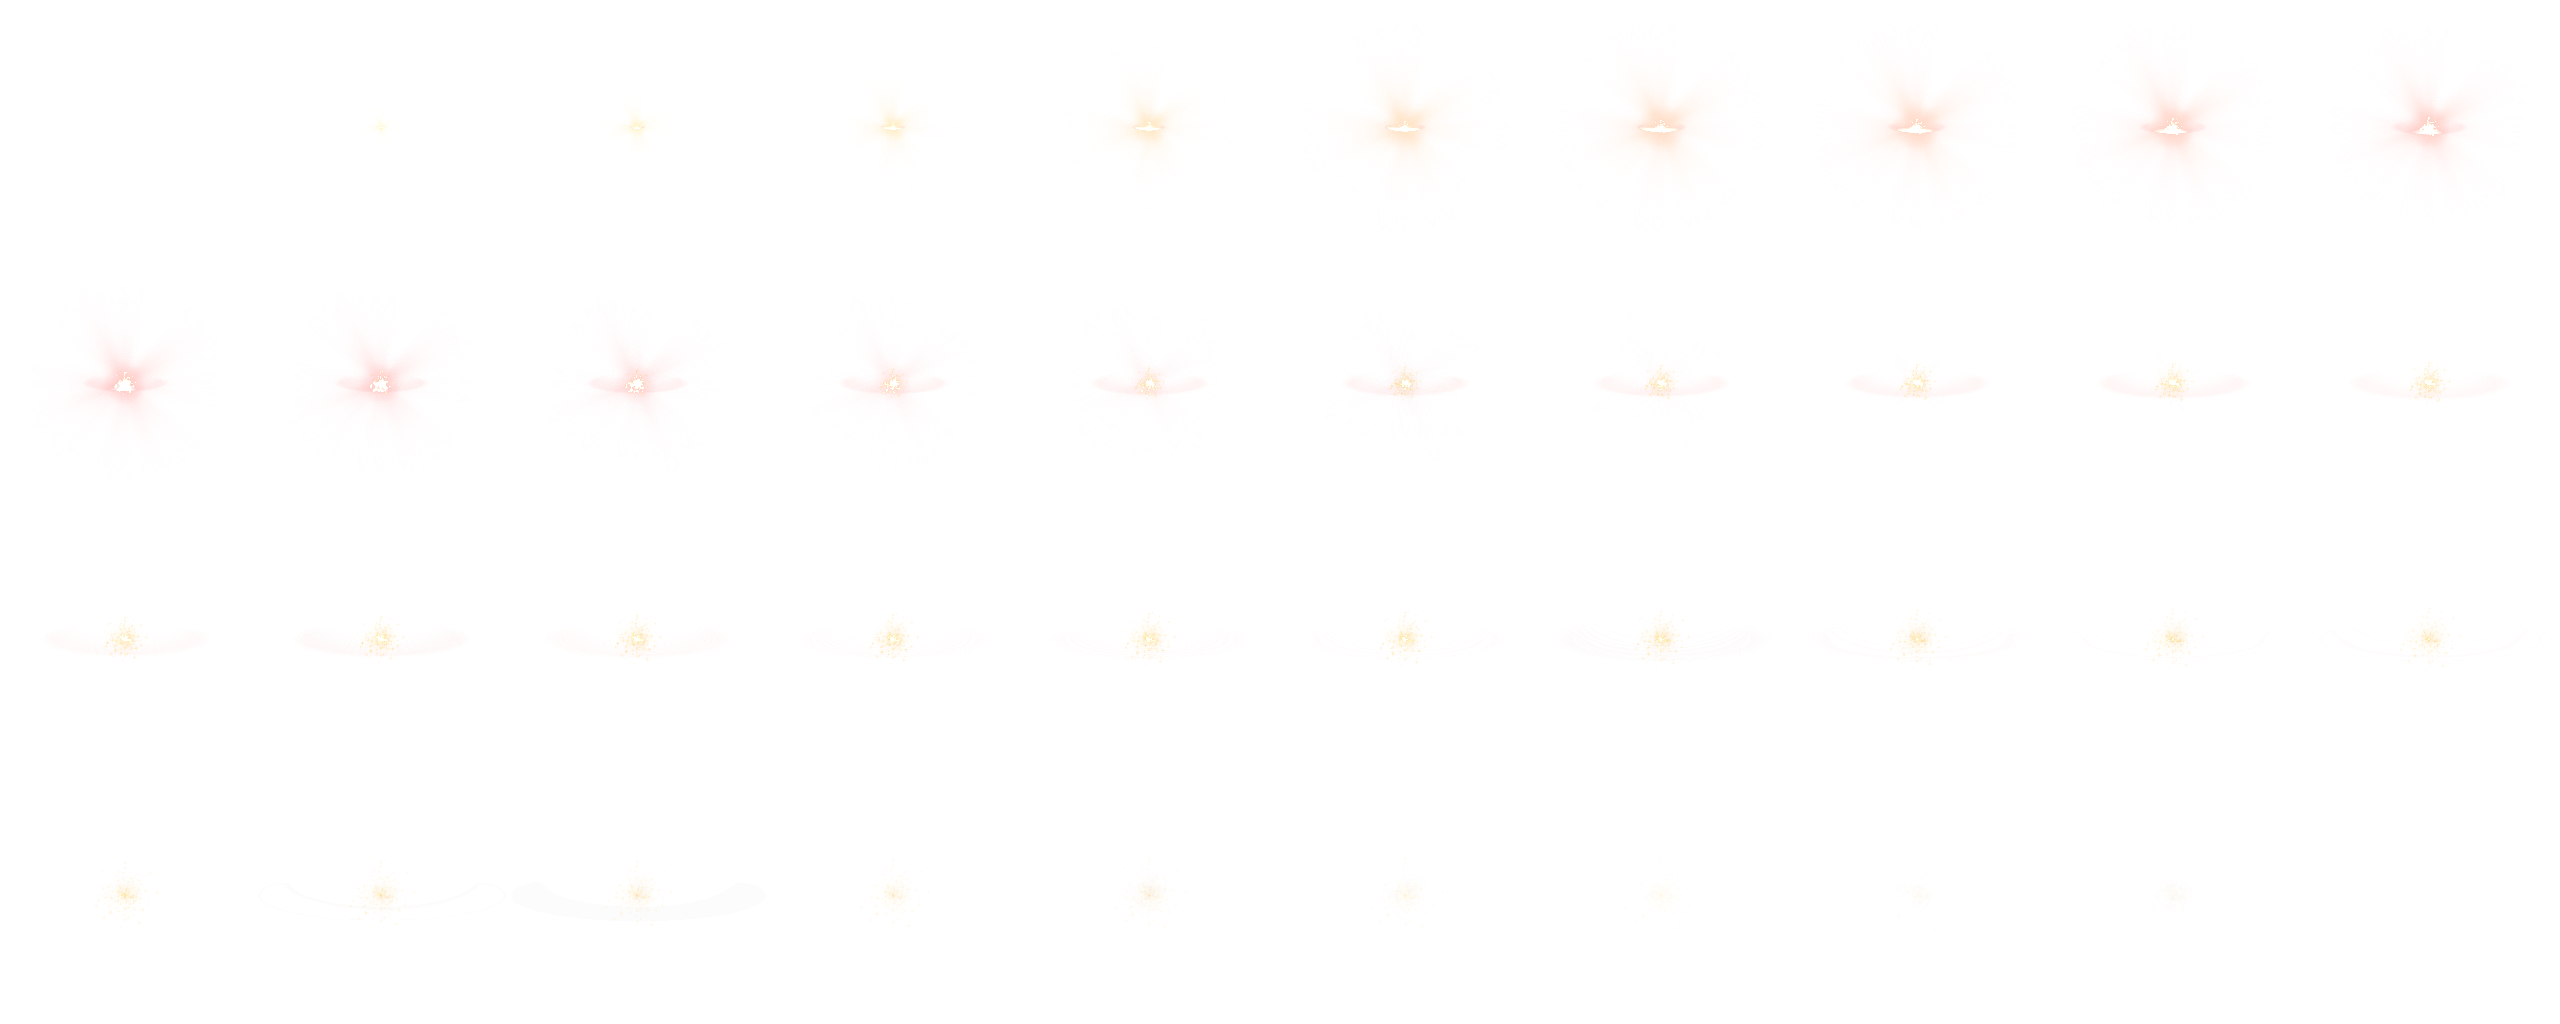
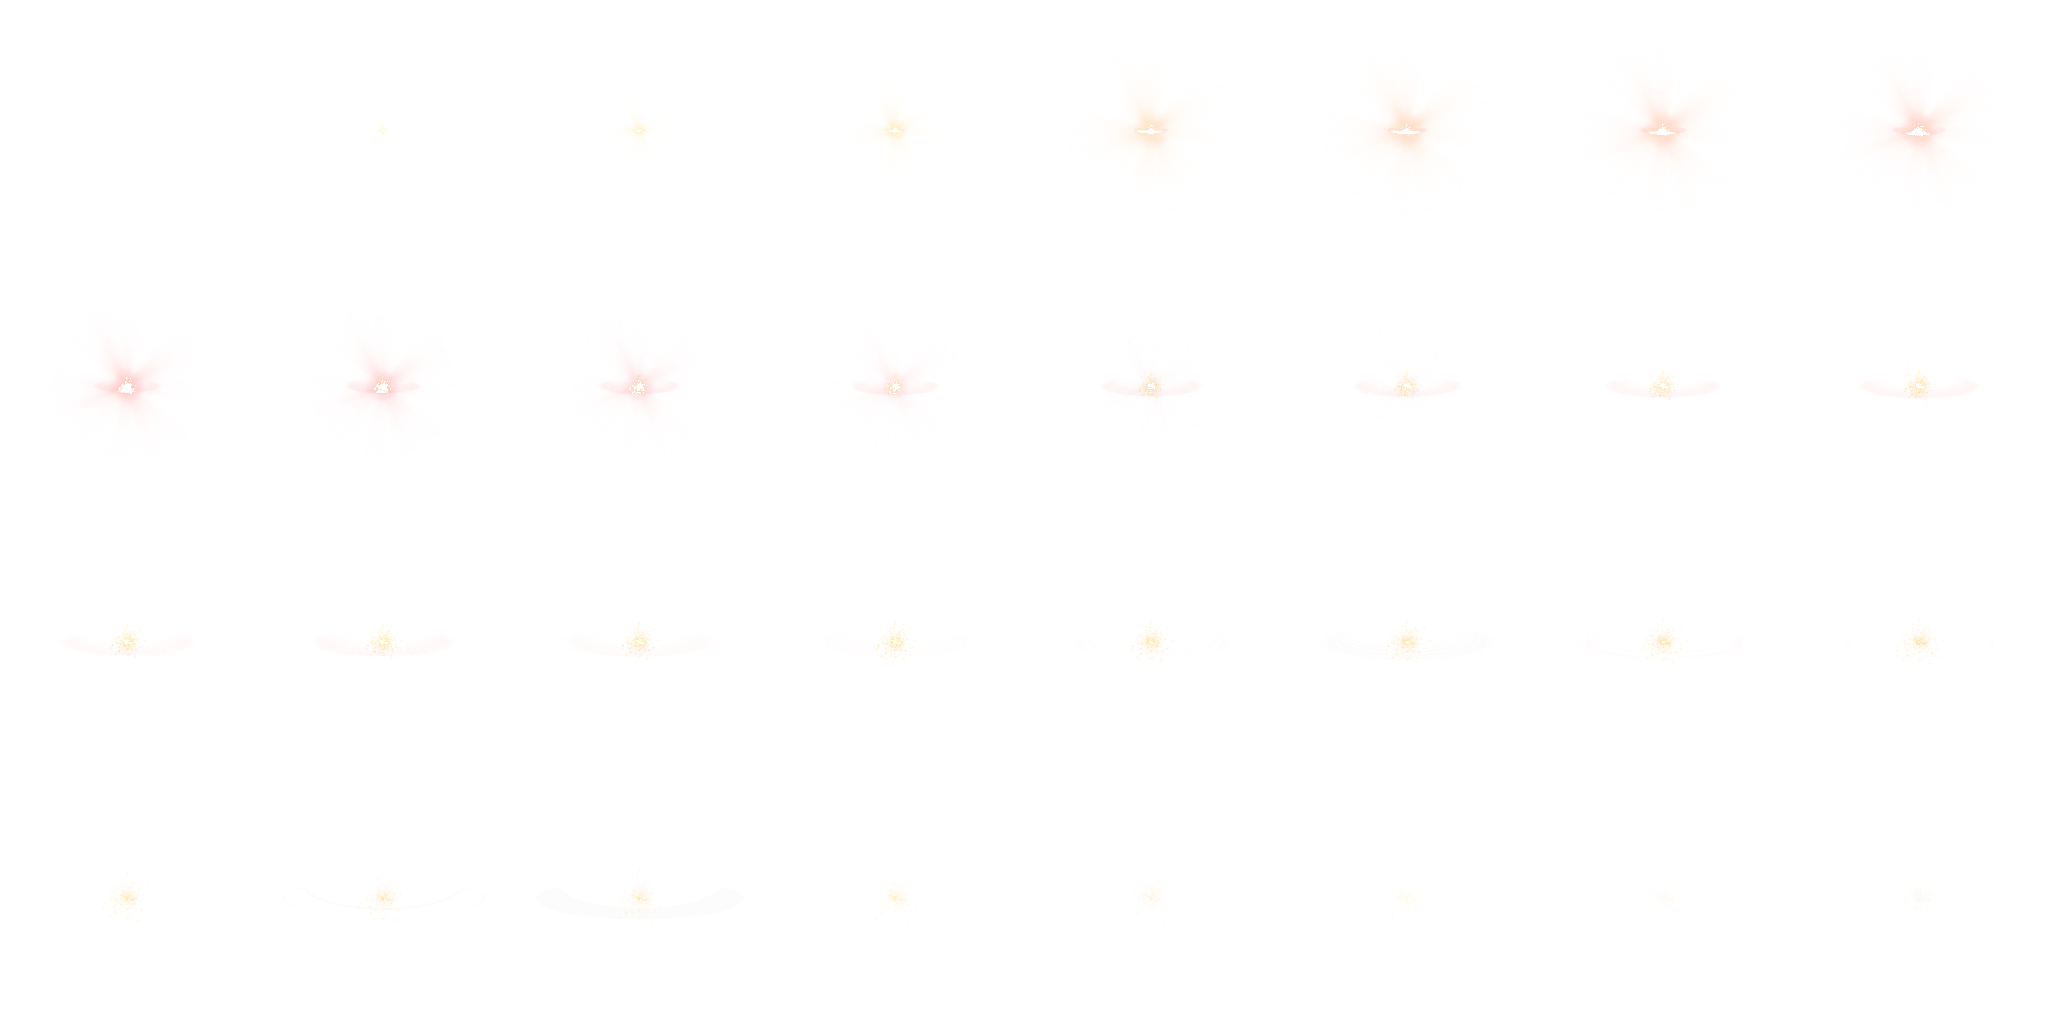
jetpack explosion

diff --git a/igk-game/Classes/Gameplay.cpp b/igk-game/Classes/Gameplay.cpp
@@ -131,6 +131,23 @@ bool Gameplay::init()
 	scoreText->setPosition(ccp(50,hud->getContentSize().height/2.0f));
 	hud->addChild(scoreText);
 
+
+	// Init explosion anim
+	CCSprite* mExplosionAnimTexture;
+	CCAnimation* mExplosionpakAnimation;
+	mExplosionAnimTexture = new CCSprite;
+	mExplosionAnimTexture->initWithFile("jetpack.png");
+	mExplosionpakAnimation = new CCAnimation();
+	mExplosionpakAnimation->initWithFrames(NULL, 0.03f);
+	for(int y = 0; y < 7; ++y) {
+		for(int x = 0; x < 8; ++x) {
+			float width = 256;
+			float height = 256.0f;
+			CCSpriteFrame* frame = CCSpriteFrame::frameWithTexture(mExplosionAnimTexture->getTexture(), CCRect(x*width, y*height, width, height));
+			mExplosionpakAnimation->addFrame(frame);
+		}
+	}
+
 	return true;
 }
 
@@ -434,13 +451,11 @@ void Gameplay::createPlayer(float posx, float posy)
 	world->addChild(mPlayer->mPlayer, 3);
 
 	// Jetpack animation
-	CCSprite* mJetpakAnimTexture = new CCSprite();
-	mJetpakAnimTexture->initWithFile("explosion.png");
-	CCAnimation* mJetpakAnimation = new CCAnimation();
-	//mTeslaCoilAnimation->initWithName("tesla_coil", WEAPON_ANIM_SPEED);
-	mJetpakAnimation->initWithFrames(NULL, 0.3f);
+	mJetpakAnimTexture = CCSprite::spriteWithFile("jetpack.png");
+	mJetpakAnimation = new CCAnimation();
+	mJetpakAnimation->initWithFrames(NULL, 0.03f);
 	for(int y = 0; y < 4; ++y) {
-		for(int x = 0; x < 10; ++x) {
+		for(int x = 0; x < 8; ++x) {
 			float width = 256;
 			float height = 256.0f;
 			CCSpriteFrame* frame = CCSpriteFrame::frameWithTexture(mJetpakAnimTexture->getTexture(), CCRect(x*width, y*height, width, height));
@@ -450,11 +465,10 @@ void Gameplay::createPlayer(float posx, float posy)
 
 	mJetpakAnimTexture->setAnchorPoint(ccp(0.5f, 0.5f));
 	mJetpakAnimTexture->setPosition(ccp(14, 36));
-	mPlayer->mPlayer->addChild(mJetpakAnimTexture);
+	world->addChild(mJetpakAnimTexture, 2);
+	mJetpakAnimTexture->setIsVisible(false);
 
-	CCActionInterval* jetpackAction = CCAnimate::actionWithAnimation(mJetpakAnimation);
-	CCRepeatForever* repeat = CCRepeatForever::actionWithAction(jetpackAction);
-	mJetpakAnimTexture->runAction(repeat);
+	
 
 
 	// PHYSICAL REPRESENTATION
@@ -587,8 +601,22 @@ void Gameplay::ccTouchesBegan(CCSet *pTouches, CCEvent *pEvent)
 	cursor->setPosition(p);
 	world->addChild(cursor);
 
+	CCActionInterval* jetpackAction = CCAnimate::actionWithAnimation(mJetpakAnimation);
+	CCCallFuncND* callfunc = CCCallFuncND::actionWithTarget(this, callfuncND_selector(Gameplay::jetpackCallback), NULL);
+	CCSequence* seq = CCSequence::actionOneTwo(jetpackAction, callfunc);
+	mJetpakAnimTexture->stopAllActions();
+	mJetpakAnimTexture->setIsVisible(true);
+	mJetpakAnimTexture->runAction(seq);
+
+
 	playerLookAt(cursor->getPosition());
 	drainImpulseFuel = true;
+}
+
+void Gameplay::jetpackCallback( CCNode* node, void* obj )
+{
+	mJetpakAnimTexture->stopAllActions();
+	mJetpakAnimTexture->setIsVisible(false);
 }
 
 void Gameplay::ccTouchesMoved(CCSet *pTouches, CCEvent *pEvent)

diff --git a/igk-game/Classes/Gameplay.h b/igk-game/Classes/Gameplay.h
@@ -54,6 +54,8 @@ public:
 	void removeAchievement(CCNode *label);
 	void showAchievement(const char*);
 
+	void jetpackCallback( CCNode* node, void* obj );
+
 private:
 	CCSprite* mBackground;
 	b2World* mWorld;
@@ -79,6 +81,12 @@ private:
 	float impulseFuel;
 	bool drainImpulseFuel;
 	CCLayerColor* impulseFuelIndicator;
+
+	CCSprite* mJetpakAnimTexture;
+	CCAnimation* mJetpakAnimation;
+
+	CCSprite* mExplosionAnimTexture;
+	CCAnimation* mExplosionpakAnimation;
 };
 
 #endif
